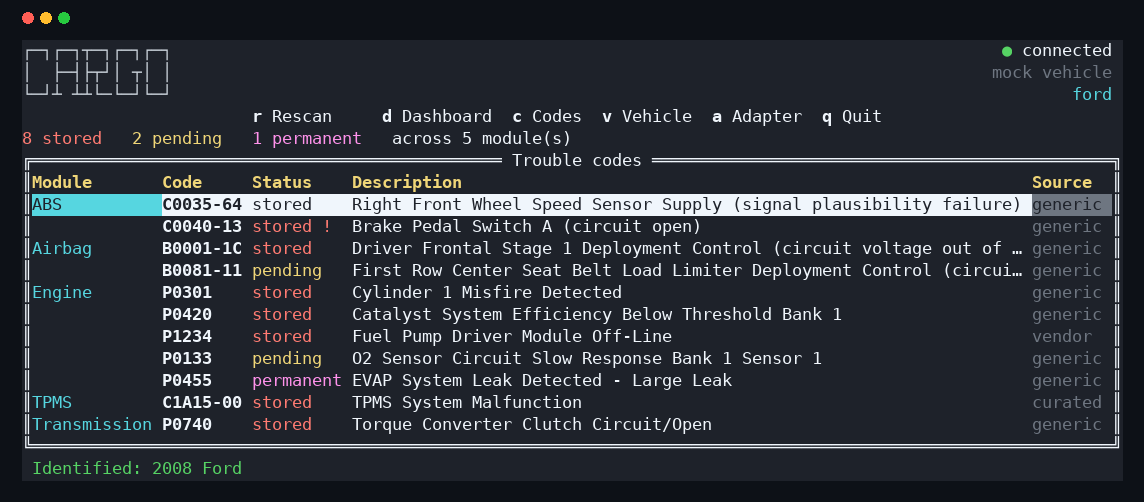
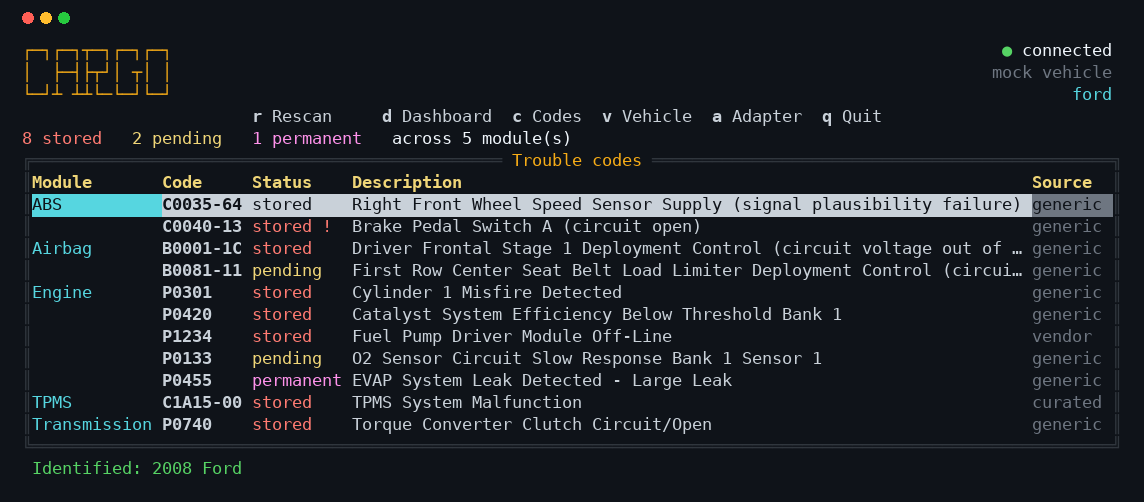
Paint the whole screen, in explicit colours
The terminal background showed through around the edges of the UI.

tview defaults to tcell.ColorBlack, which resolves to whatever the
terminal calls colour 0 rather than to the terminal's actual background.
On Ubuntu those differ: colour 0 is near-black and the background is dark
purple, so every painted cell came out near-black against a purple
surround wherever nothing painted at all.

Two causes. Layout rounding and any region no primitive covers were left
untouched, so a fill now runs before each frame. And a nil flex item
reserves space without drawing, which around the centred make picker is
the entire margin; those are boxes now.

While setting a background explicitly, the rest of the palette follows:
muted borders, an amber title matching the logo, and dimmed secondary
text, instead of tview's defaults which assume the terminal's.

diff --git a/internal/displayer/theme.go b/internal/displayer/theme.go
@@ -1,0 +1,51 @@
+package displayer
+
+import (
+	"github.com/gdamore/tcell/v2"
+	"github.com/rivo/tview"
+)
+
+// Explicit colours rather than the terminal palette.
+//
+// tview defaults to tcell.ColorBlack, which resolves to whatever the terminal
+// calls colour 0. That is rarely the terminal's actual background: Ubuntu's is
+// a dark purple, so every cell tview painted came out near-black against a
+// purple surround wherever it painted nothing.
+var theme = struct {
+	background tcell.Color
+	text       tcell.Color
+	dim        tcell.Color
+	border     tcell.Color
+	title      tcell.Color
+	accent     tcell.Color
+}{
+	background: tcell.NewHexColor(0x0f1319),
+	text:       tcell.NewHexColor(0xc9d1d9),
+	dim:        tcell.NewHexColor(0x6e7681),
+	border:     tcell.NewHexColor(0x30363d),
+	title:      tcell.NewHexColor(0xf7ac16),
+	accent:     tcell.NewHexColor(0x58a6ff),
+}
+
+// applyTheme sets the palette every primitive inherits.
+func applyTheme() {
+	tview.Styles.PrimitiveBackgroundColor = theme.background
+	tview.Styles.ContrastBackgroundColor = theme.border
+	tview.Styles.MoreContrastBackgroundColor = theme.accent
+	tview.Styles.PrimaryTextColor = theme.text
+	tview.Styles.SecondaryTextColor = theme.dim
+	tview.Styles.TertiaryTextColor = theme.dim
+	tview.Styles.BorderColor = theme.border
+	tview.Styles.TitleColor = theme.title
+	tview.Styles.GraphicsColor = theme.border
+	tview.Styles.InverseTextColor = theme.background
+}
+
+// spacer is an empty region that still paints.
+//
+// A nil flex item reserves space without drawing anything, so the terminal
+// background shows through it. Around a centred dialog that is the whole
+// margin.
+func spacer() *tview.Box {
+	return tview.NewBox().SetBackgroundColor(theme.background)
+}

diff --git a/internal/displayer/displayer.go b/internal/displayer/displayer.go
@@ -119,6 +119,8 @@ func (d *Displayer) lock()   { <-d.stateMu }
 func (d *Displayer) unlock() { d.stateMu <- struct{}{} }
 
 func (d *Displayer) Run() error {
+	applyTheme()
+
 	d.brand = tview.NewTextView().SetDynamicColors(true).SetText(wordmark)
 
 	d.statusText = tview.NewTextView().
@@ -149,6 +151,14 @@ func (d *Displayer) Run() error {
 
 	d.app.SetRoot(root, true)
 	d.app.SetInputCapture(d.onKey)
+
+	// Paint the whole screen before each frame. Layout rounding and any
+	// region a primitive does not cover would otherwise keep the
+	// terminal's own background, which is what showed at the edges.
+	d.app.SetBeforeDrawFunc(func(screen tcell.Screen) bool {
+		screen.Fill(' ', tcell.StyleDefault.Background(theme.background))
+		return false
+	})
 
 	go d.pollLive()
 	go d.pollDTCs()

diff --git a/internal/displayer/vehicle.go b/internal/displayer/vehicle.go
@@ -281,14 +281,14 @@ func (d *Displayer) chooseMake() {
 // centred puts a primitive in the middle of the screen at a fixed size.
 func centred(p tview.Primitive, width, height int) tview.Primitive {
 	row := tview.NewFlex().SetDirection(tview.FlexRow)
-	row.AddItem(nil, 0, 1, false)
+	row.AddItem(spacer(), 0, 1, false)
 	row.AddItem(p, height, 0, true)
-	row.AddItem(nil, 0, 1, false)
+	row.AddItem(spacer(), 0, 1, false)
 
 	col := tview.NewFlex()
-	col.AddItem(nil, 0, 1, false)
+	col.AddItem(spacer(), 0, 1, false)
 	col.AddItem(row, width, 0, true)
-	col.AddItem(nil, 0, 1, false)
+	col.AddItem(spacer(), 0, 1, false)
 	return col
 }
 
